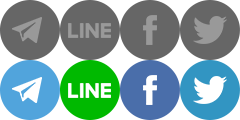
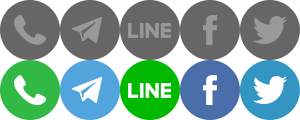
订单中心市价委托逻辑判断；footer链接修改

diff --git a/js/stores/order-history.js b/js/stores/order-history.js
@@ -72,6 +72,11 @@ class OrderStore {
                         let { details = [] } = data.attachment;
                         // null不严格等于undefined
                         details = details === null ? [] : details;
+                        if(item.type === 2) {
+                            details.forEach(item => {
+                                item.price = UPEX.lang.template('市价委托')
+                            })
+                        }
                         this.orderList[index].details = details;
                         this.orderList[index]._detailInfo = data.attachment;
                         this.orderList[index].detailReady = true;
@@ -162,7 +167,8 @@ class OrderStore {
         // 时间
         item.orderTime = TimeUtil.formatDate(item.orderTimeStamp);
         // 委托价格
-        item.price = NumberUtil.formatNumber(item.price, pointPrice);
+        console.log(item.type)
+        item.price = item.type === 2 ? UPEX.lang.template('市价委托') : NumberUtil.formatNumber(item.price, pointPrice);
         // 平均成交价
         item.averagePrice = NumberUtil.formatNumber(item.averagePrice || 0, pointPrice);
         // 成交价格

diff --git a/css/common.less b/css/common.less
@@ -470,7 +470,7 @@ body .ant-back-top-inner:hover{
 
 .app-footer .footer-box .info .icons i.icon {
     background: url('../images/home-icon.png') no-repeat 0 0;
-    background-size: 120px 60px;
+    background-size: auto 60px;
 }
 
 .app-footer .footer-box .info .icons i.icon:hover {
@@ -481,13 +481,18 @@ body .ant-back-top-inner:hover{
 .app-footer .footer-box .info .icons i.icon.line {
     background-position-x: -30px;
 }
-
-.app-footer .footer-box .info .icons i.icon.facebook {
+.app-footer .footer-box .info .icons i.icon.telegram {
+    background-position-x: -30px;
+}
+.app-footer .footer-box .info .icons i.icon.whatapps {
     background-position-x: -60px;
+}
+.app-footer .footer-box .info .icons i.icon.facebook {
+    background-position-x: -90px;
 }
 
 .app-footer .footer-box .info .icons i.icon.twitter {
-    background-position-x: -90px;
+    background-position-x: -120px;
 }
 
 .app-footer .footer-box .copyright {

diff --git a/js/mods/footer/info.js b/js/mods/footer/info.js
@@ -8,7 +8,8 @@ class InfoView extends Component {
                 <p className="mail">{UPEX.lang.template("CustomerServiceEmail")}</p>
                 <div className="icons">
                     <a href={UPEX.config.csurls.telegram} target="_blank" ><i className="icon telegram"></i></a>
-                    <a href={UPEX.config.csurls.line} target="_blank"><i className="icon line"></i></a>
+                    <a href={UPEX.config.csurls.whatapp} target="_blank"><i className="icon whatapp"></i></a>
+                    {/* <a href={UPEX.config.csurls.line} target="_blank"><i className="icon line"></i></a> */}
                     <a href={UPEX.config.csurls.facebook} target="_blank"><i className="icon facebook"></i></a>
                     <a href={UPEX.config.csurls.twitter} target="_blank"><i className="icon twitter"></i></a>
                 </div>

diff --git a/js/pages/record-list/order/open.js b/js/pages/record-list/order/open.js
@@ -4,7 +4,7 @@ import { Pagination, Popconfirm, message } from 'antd';
 import { cancelOrder } from '@/api/http';
 import TimeUtil from '@/lib/util/date';
 import toAction from './page-action';
-import Form from './query-form';
+import Filter from './head-filter';
 
 @inject('commonStore', 'openStore', 'authStore')
 @observer
@@ -143,7 +143,7 @@ class List extends Component {
 
         return (
             <div className="order-main-box">
-                <Form onClick={this.onQuery.bind(this)} action="open" />
+                <Filter onClick={this.onQuery.bind(this)} action="open" />
                 <div className="order-table open-list-table">
                     <div className="table-hd">
                         <table>

diff --git a/js/pages/record-list/order/history.js b/js/pages/record-list/order/history.js
@@ -3,7 +3,7 @@ import { observer, inject } from 'mobx-react';
 import { Pagination } from 'antd';
 import TimeUtil from '@/lib/util/date';
 import toAction from './page-action';
-import Form from './query-form';
+import Filter from './head-filter';
 
 @inject('commonStore', 'historyStore', 'authStore')
 @observer
@@ -208,7 +208,7 @@ class List extends Component {
 
         return (
             <div className="order-main-box">
-                <Form onClick={this.onQuery.bind(this)} action="history" />
+                <Filter onClick={this.onQuery.bind(this)} action="history" />
                 <div className="order-table history-list-table">
                     <div className="table-hd">
                         <table>

diff --git a/js/pages/record-list/order/success.js b/js/pages/record-list/order/success.js
@@ -3,7 +3,7 @@ import { observer, inject } from 'mobx-react';
 import { Pagination } from 'antd';
 import TimeUtil from '@/lib/util/date';
 import toAction from './page-action';
-import Form from './query-form';
+import Filter from './head-filter';
 
 @inject('commonStore', 'successStore', 'authStore')
 @observer
@@ -95,7 +95,7 @@ class List extends Component {
 
         return (
             <div className="order-main-box">
-                <Form onClick={this.onQuery.bind(this)} action="success"/>
+                <Filter onClick={this.onQuery.bind(this)} action="success"/>
                 <div className="order-table success-list-table">
                     <div className="table-hd">
                         <table>

diff --git a/js/stores/order-success.js b/js/stores/order-success.js
@@ -79,7 +79,7 @@ class OrderStore {
 
         item.orderTime = TimeUtil.formatDate(item.orderTimeStamp);
         // 委托价格
-        item.price = NumberUtil.formatNumber(item.price, pointPrice);
+        item.price = item.type === 2 ? UPEX.lang.template('市价委托') : NumberUtil.formatNumber(item.price, pointPrice);
         item.tradeAmount = NumberUtil.formatNumber(item.tradeAmount, pointPrice);
         item.tradePrice = NumberUtil.formatNumber(item.tradePrice, pointPrice);
         item.fee = NumberUtil.scientificToNumber(item.fee);

diff --git a/js/stores/order-open.js b/js/stores/order-open.js
@@ -114,7 +114,7 @@ class OrderStore {
         // 时间
         item.orderTime = TimeUtil.formatDate(item.orderTimeStamp);
         // 委托价格
-        item.price = NumberUtil.formatNumber(item.price, pointPrice);
+        item.price = item.type === 2 ? UPEX.lang.template('市价委托') : NumberUtil.formatNumber(item.price, pointPrice);
         // 成交金额
         item.tradeAmount = NumberUtil.formatNumber(item.tradeAmount || 0, pointPrice);
         // 成交价格

diff --git a/js/config-aus.js b/js/config-aus.js
@@ -12,7 +12,8 @@ config.csurls = {
     telegram: 'https://t.me/ACEexchange',
     facebook: 'https://www.facebook.com/ace.exchange.tw/',
     twitter: 'https://twitter.com/ACE_exchange',
-    line: 'https://medium.com/ace-exchange'
+    line: 'https://medium.com/ace-exchange',
+    whatapp: 'https://medium.com/ace-exchange',
 };
 
 config.baseCurrencyEn = 'AUD';

diff --git a/js/config.js b/js/config.js
@@ -12,7 +12,8 @@ config.csurls = {
     telegram: '',
     facebook: '',
     twitter: '',
-    line: ''
+    line: '',
+    whatapp: 'https://medium.com/ace-exchange',
 };
 config.baseCurrencyEn = 'TWD';
 config.baseCurrencySymbol = 'NT$';
